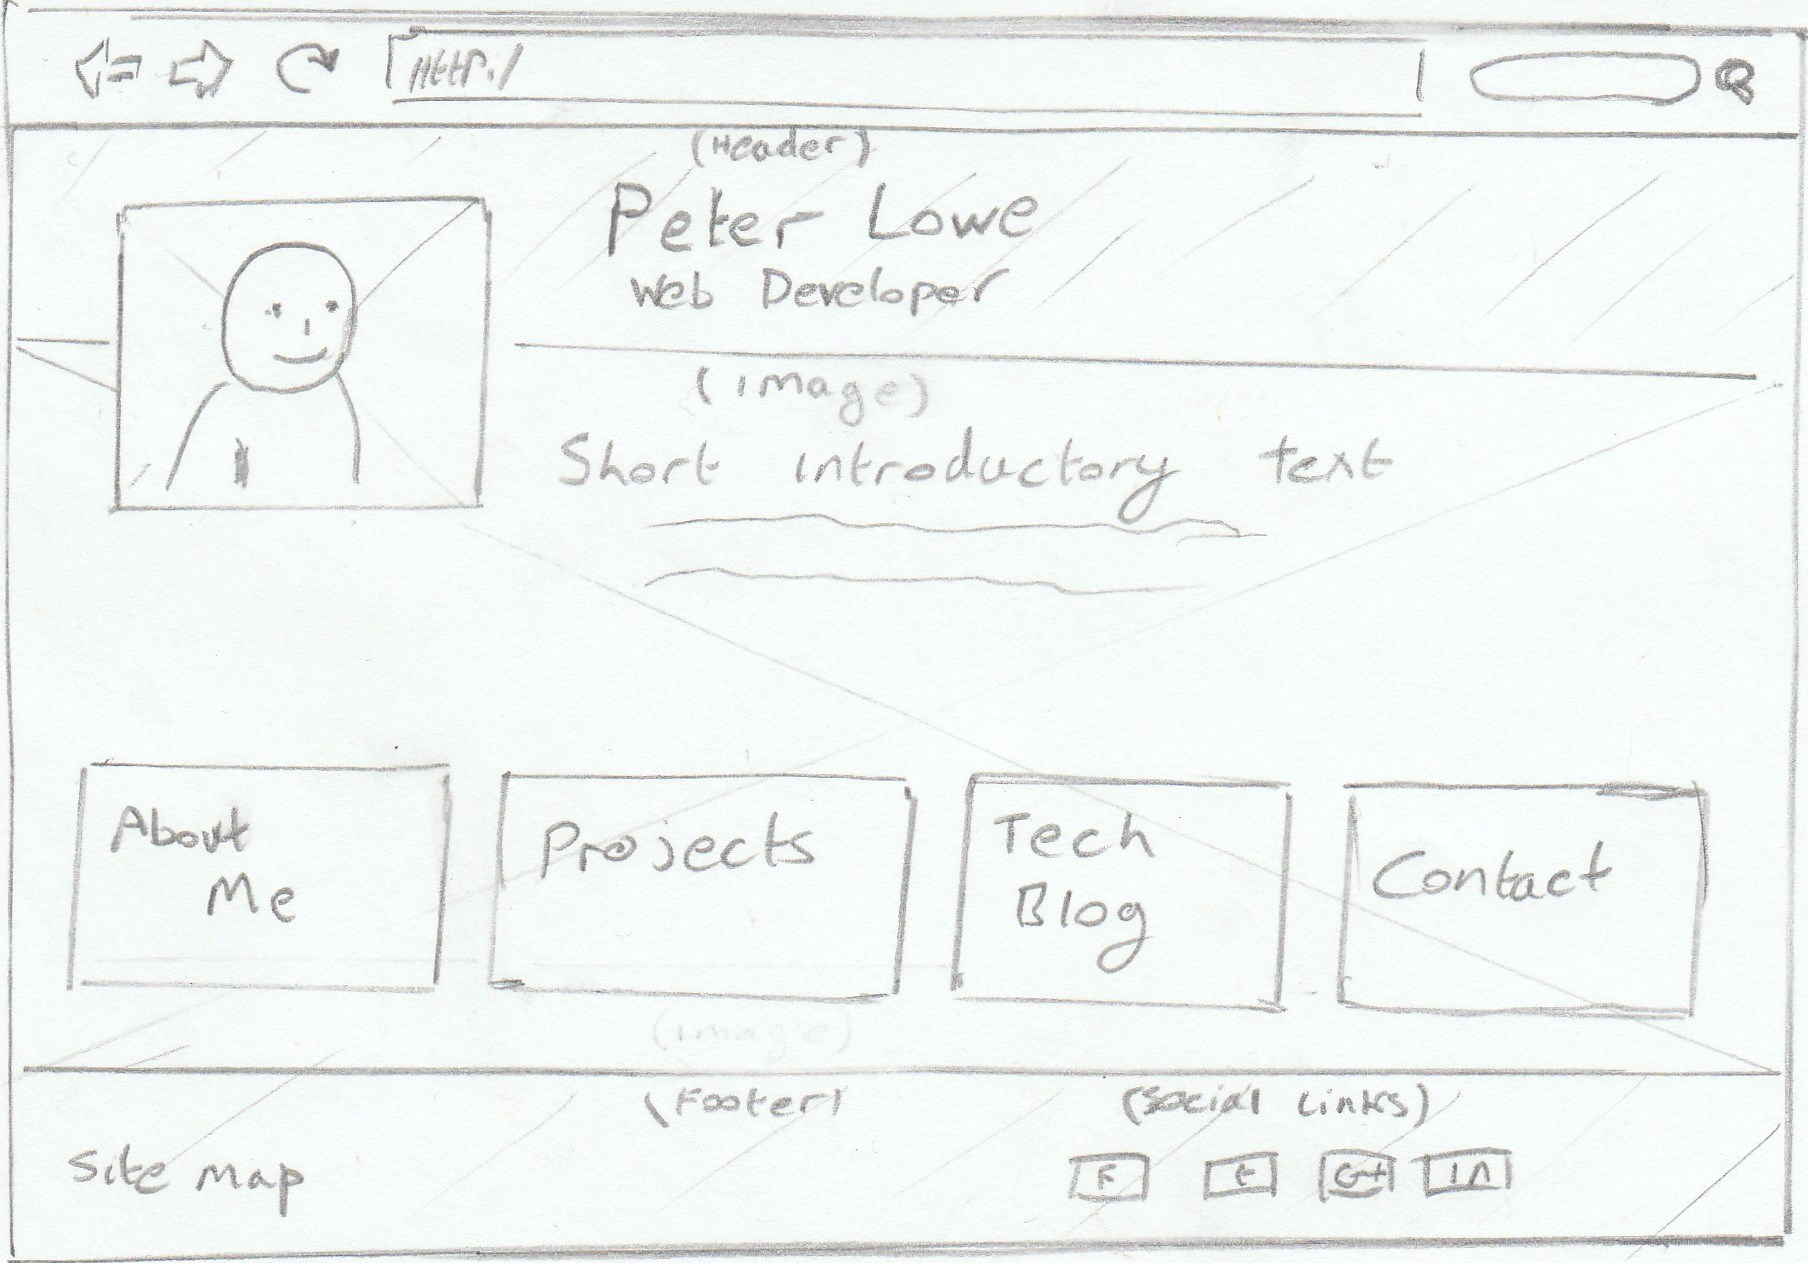
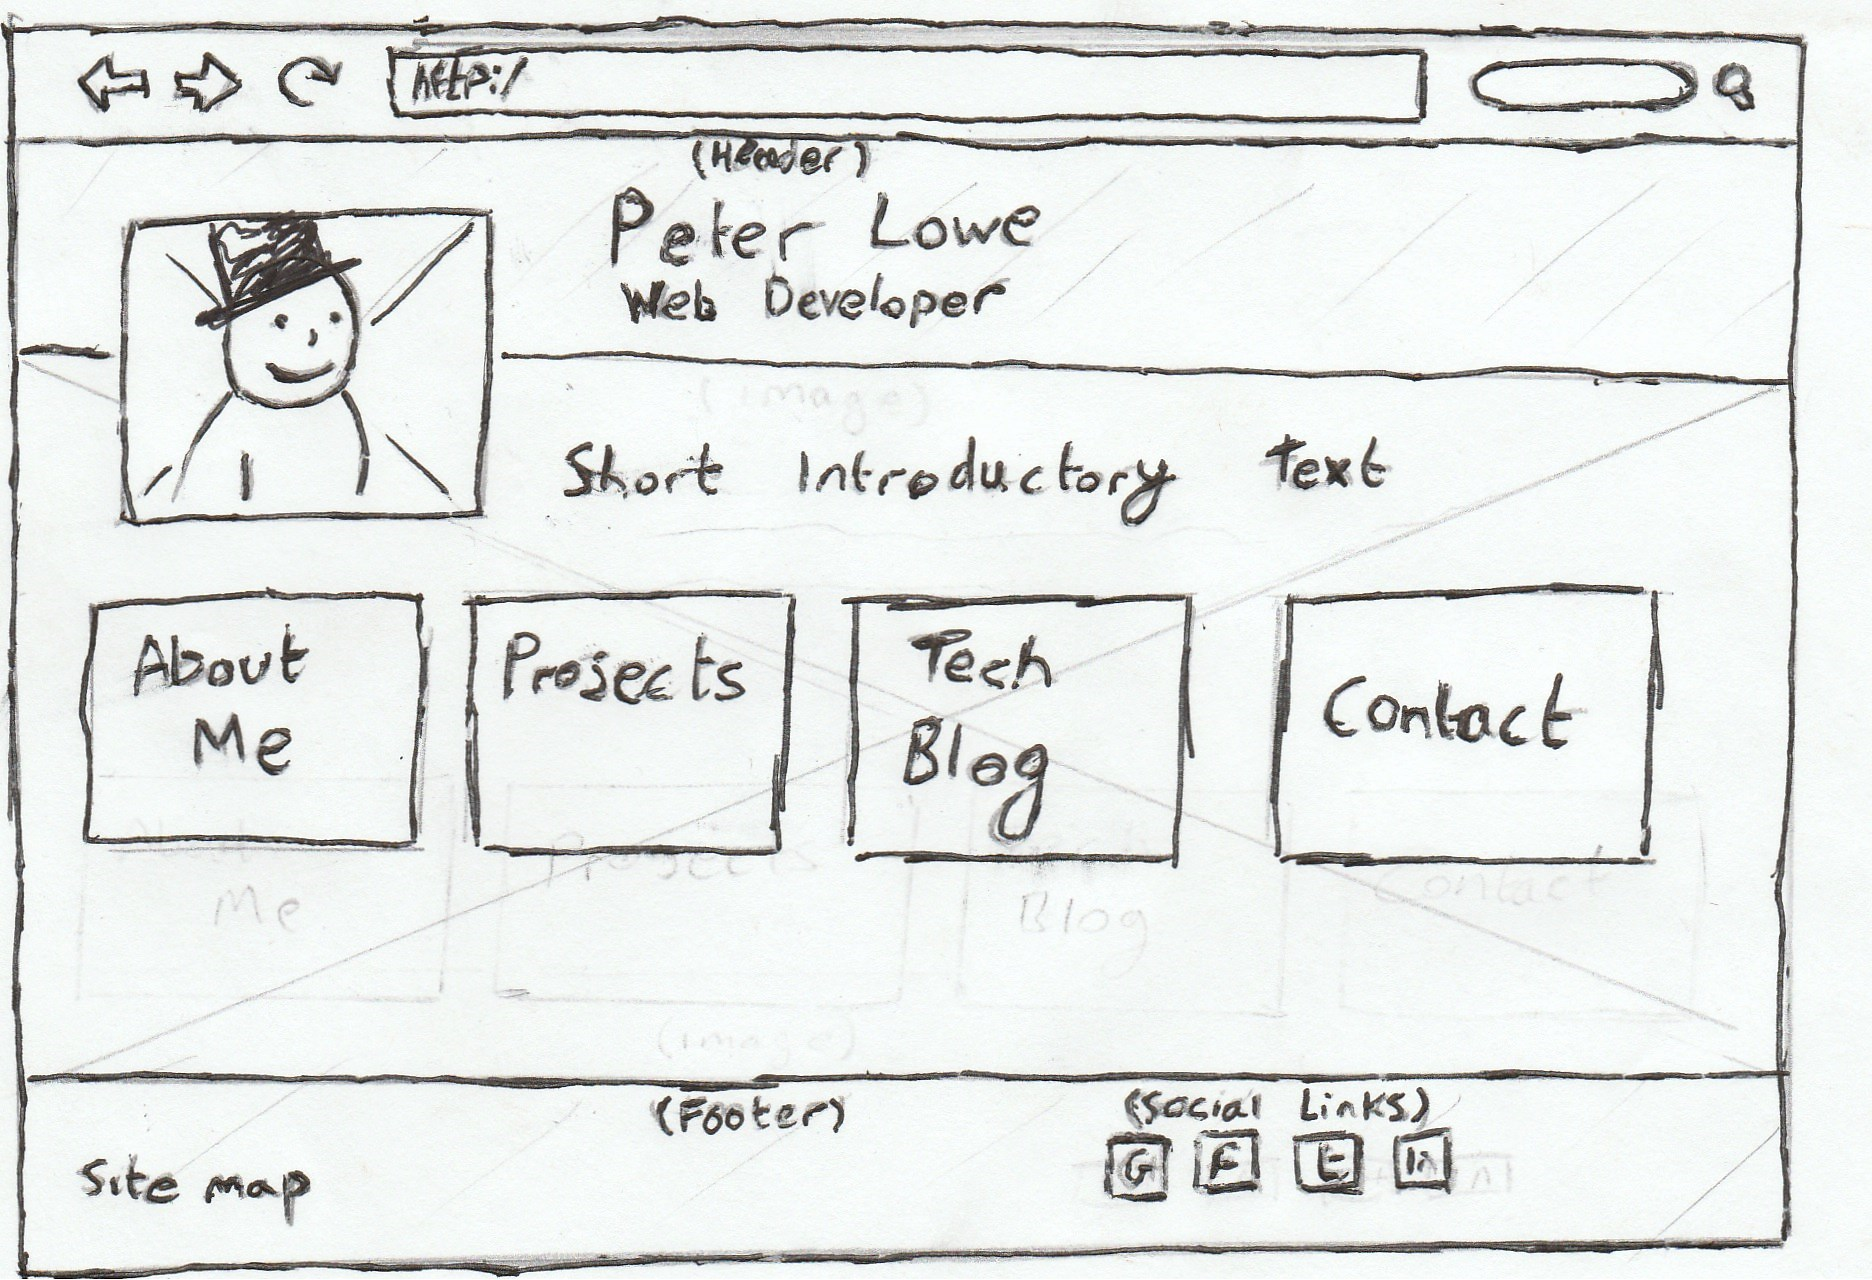
Adds reflection for 2.8 and updated wireframes

diff --git a/week-2/2.8-reflection.md b/week-2/2.8-reflection.md
@@ -1,0 +1,16 @@
+# Solo Challenge 2.8 Reflection
+
+![ALT Text](./imgs/wireframe-index.jpg)
+![ALT Text](./imgs/wireframe-blog-index2.0.jpg)
+
+**How was your experience translating a wireframe into HTML?**
+
+  It's hard to say.  It was nice to put some more html into practice but I felt like at this point without any CSS to control the layout the results bare little resemblance to my wireframes.  I think I have all the basic html elements that I need to make something that looks like my wireframes but until I get into CSS next week I cannot be sure.  I suspect it is likely that some of this html code will need to be revised to fit in better with what i'm trying to do with CSS next week but i've never worked with either langage before so it's hard to say. 
+
+What new tricks or elements did you learn about in HTML?
+
+   I learnt how to create a dropdown menu with the <select> and <option> tags and how to make those choices link to a new page with the 'onchange' argument.  I also did some research into outlining with the <section> and <article> tags but I don't think either of these where nececary for what i was trying to produce.  I may find that I'm wrong on that assumption later on but I can always add them when I need to.
+
+Are you excited to start incorporating the design you chose next week?
+  
+   I'm very excited to learn how CSS and html can work together to style a page.  I'm particularly excited to have a webpage that looks like more than just a list of elements.
